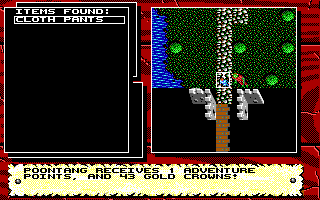
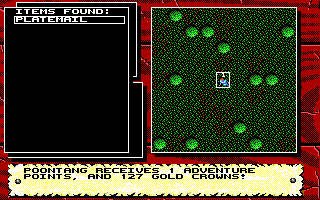
chore(verify): 戰利品收據重新取樣（seed 39）
敵人會射擊之後亂數的消耗變了，原本 seed 141421 那一輪的第一場不再掉東西，
而且戰鬥比以前早結束，二十二輪的長腳本後段整段落到野外。改用八輪的短腳本
重掃種子，seed 39 的第一場掉了 PLATEMAIL，三張畫格連號取到。

`seed_note` 一併訂正：「連續整數種子會系統性錯過」不是通則——那是二十二輪長腳本
下的觀察，八輪短腳本用 1…40 連續種子有兩個中。改了腳本就要重掃。

驗證矩陣的戰鬥那一列更新到 RE-104／SPEC-014。

diff --git a/docs/verification/VERIFICATION-MATRIX.md b/docs/verification/VERIFICATION-MATRIX.md
@@ -20,7 +20,7 @@
 | 商店、背包與穿戴 | `Shop` 的商品表與合身判定 | 商品表在建築 payload `0x100` 起，一筆 16 byte（RE-075） | 商店 9 對 | `town-shop` 14 步 | 已對拍。**馬廄的商品表（一筆 0x80 byte）未實作** |
 | 訓練 | `Train` 的位階閘門與技能表 | 四門技能在建築 payload `0x50` 起（RE-076） | 訓練 6 對 | `town-train` 15 步 | 已對拍。**加技能與鍛造兩條路原版存檔走不到，只有靜態證據** |
 | 世界地圖、時刻與道路 | `internal/world` 的格子、次格、道路遮罩 | 城鎮記錄 16 組座標全部相同（RE-069）；循路一步扣 20 個時刻 | 野外 4 ＋ 時刻 4 ＋ 循路 10 ＋ 進城 7 對 | `world-road` 34 步、`world-clock` 28 步、`town-leave` 13 步、`town-round-trip` 20 步 | 已對拍。**雲層動畫列在 `not_claimed`**。隨機遭遇已實作（SPEC-011）：野外那兩條路徑因此**釘住亂數種子**，被伏擊就走不到終點——原版量測也一樣 |
-| 任務與戰鬥 | `internal/battle` 十五個測試檔 | 規劃、指令列、選目標、執行順序、移動、近戰結算、訊息鏈、敵人 AI、擊退、勝負與戰後結算逐條反組譯（RE-079…096） | 任務與戰場 4 ＋ 執行段訊息 1 對 | `world-quest` 91 步；戰後結算 `docs/verification/battle-spoils/`（觀察，非對拍） | SPEC-008／009／010 的已解出部分 READY。一場**雙向**打得完，戰後的冒險點數、金冠與戰利品清單都實跑過。**敵人的撤退與反制掃描、施法、投擲未實作**；戰利品框的內部版面未對拍 |
+| 任務與戰鬥 | `internal/battle` 十九個測試檔 | 規劃、指令列、選目標、執行順序、移動、近戰結算、訊息鏈、敵人 AI、擊退、勝負、戰後結算、施法、射擊、任務旗標與逃走逐條反組譯（RE-079…104） | 任務與戰場 4 ＋ 執行段訊息 1 對 | `world-quest` 91 步；戰後結算 `docs/verification/battle-spoils/`、施法 `battle-spell/`（皆為觀察，非對拍） | SPEC-008／009／010 的已解出部分與 SPEC-012／013／014 READY。一場**雙向**打得完，戰後的冒險點數、金冠與戰利品清單都實跑過；敵人在近距離會射擊。**敵人的撤退與反制掃描、投擲、逃走之後掉東西未實作**；戰利品框的內部版面未對拍 |
 | 圖像／主題 | production 抽取器逐張重讀，769 張 PNG 全部對上 visual probe 雜湊 | IDA consumer ＋ BIOS mode 0Dh | 80 張角色模板在 (208,106) 逐像素相同 | 由 `picture-cycle` 正常路徑取得對照 | SPEC-002 READY；首版 EGA-only |
 | 在地化／字型 | 兩套原版字型各 93 字模抽出並重生 | HUMAN 五字模逐 byte 命中壓縮 payload | 空白 New Character 頁 64,000 px 只差 31 px | 由正常路徑取得對照 | 中文字模表 **2,434 字**、缺字 0；安全矩形 **6,685 項**全過；UI 文字庫 **486 筆**譯文全過 `verify_ui_translation.py` |
 | 音訊 | 尚無 | 六個 executable 的 I/O 母體已窮舉；TITLE 的 WAV oracle 已取得 | 不適用 | 尚無 | **SPEC-004 仍 DRAFT，遊戲裡一個音都沒有**。卡在人耳驗收 |
